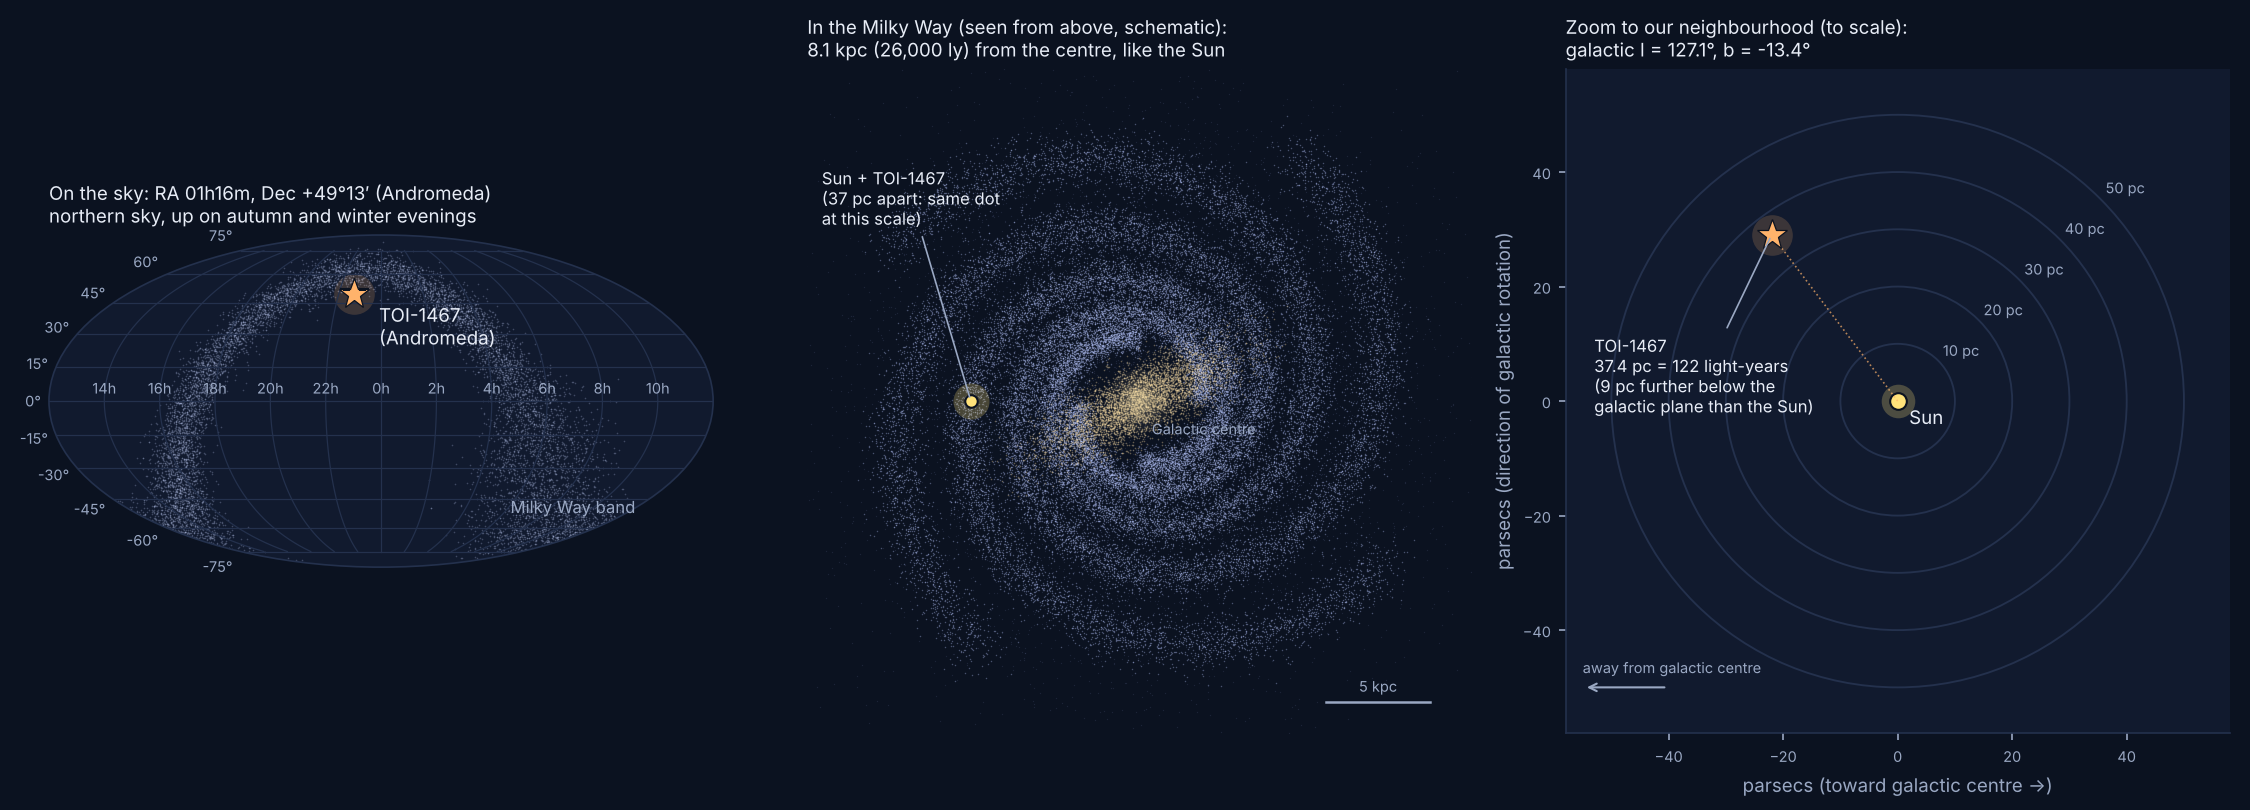
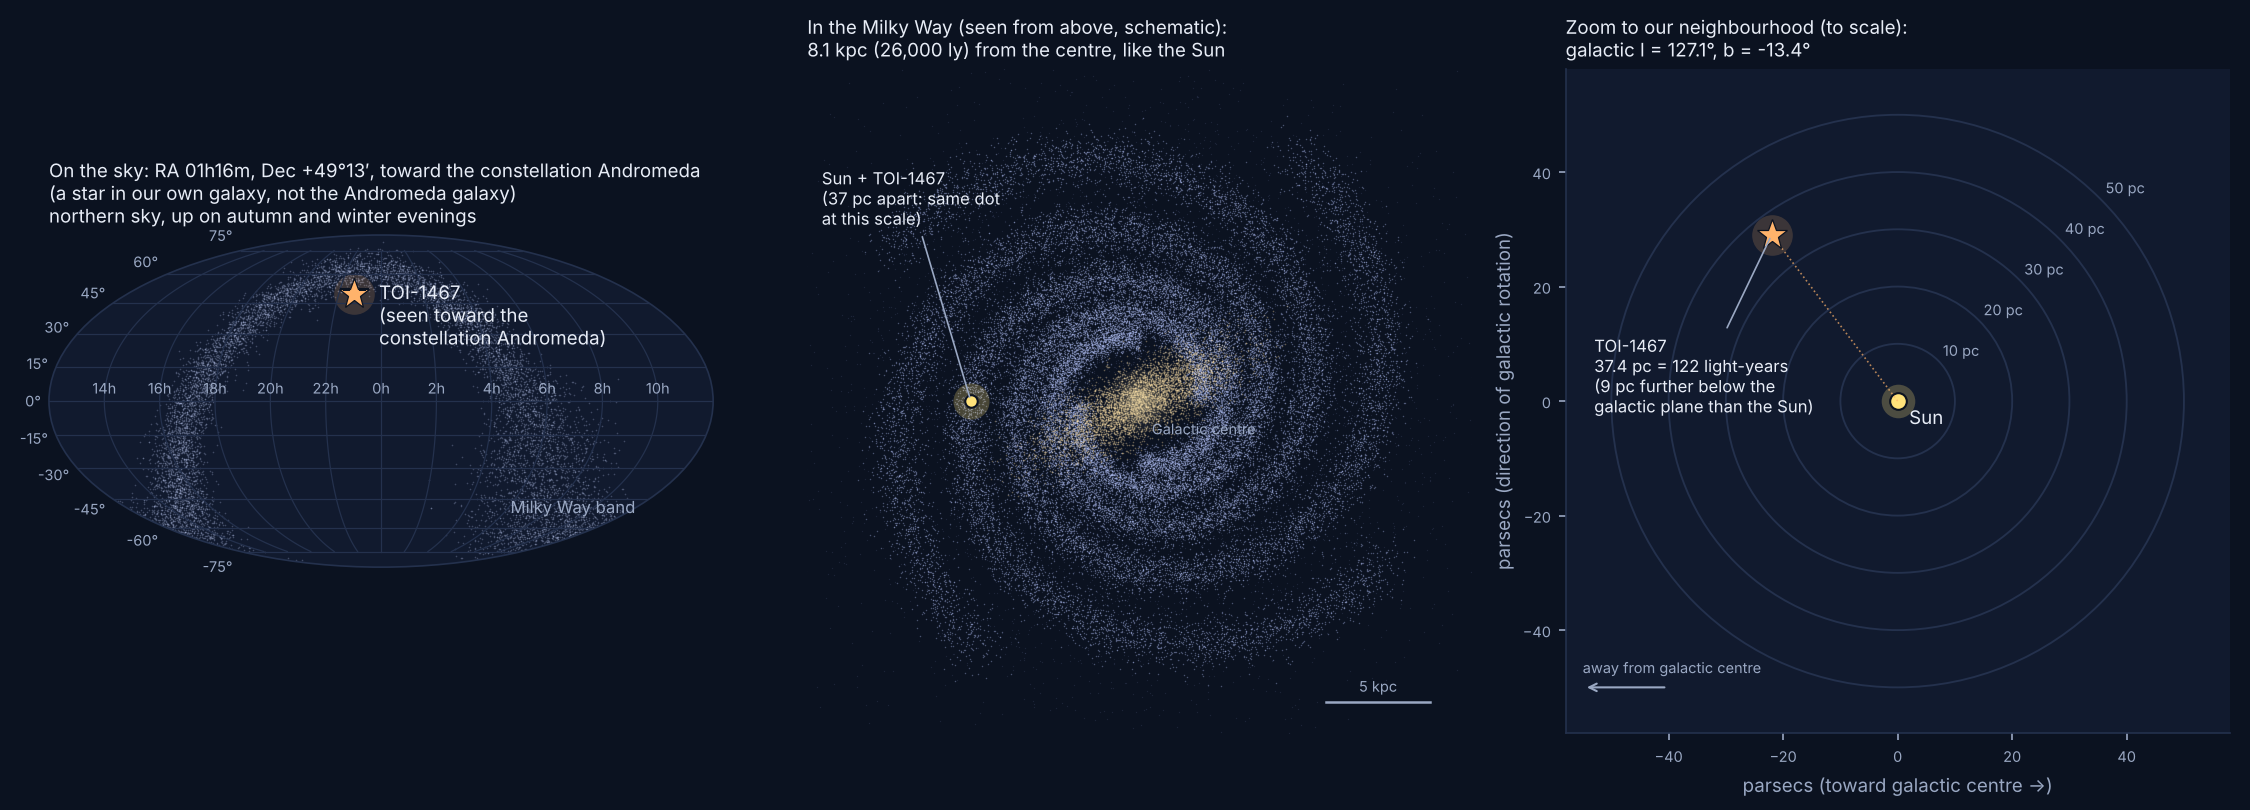
Clarify constellation Andromeda vs the Andromeda galaxy
Claude-Session: https://claude.ai/code/session_01N672f7zeXHWGD7N4jozsUH

Changed region(s): [[0.0, 0.1852, 0.3111, 0.2469], [0.1556, 0.3395, 0.28, 0.4321]]

diff --git a/TOI-1467c/index.html b/TOI-1467c/index.html
@@ -53,7 +53,7 @@ img.wide{border-radius:8px;background:#fff}
 <header>
   <span class="pill">Planet candidate · not confirmed</span>
   <h1>TOI-1467 c</h1>
-  <p class="muted">A possible second, inner planet around TOI-1467, a red dwarf 122 light-years away in Andromeda. The star already has one confirmed planet, TOI-1467 b. The new signal is a 0.06% dip in the star's light every 3.154 days in NASA TESS data from 2019 to 2024.</p>
+  <p class="muted">A possible second, inner planet around TOI-1467, a red dwarf in our own galaxy, 122 light-years away, seen in the direction of the constellation Andromeda (not the Andromeda galaxy, which is 2.5 million light-years away). The star already has one confirmed planet, TOI-1467 b. The new signal is a 0.06% dip in the star's light every 3.154 days in NASA TESS data from 2019 to 2024.</p>
   <p class="muted">Found by Austin Claybrook in an independent search, first recorded about 23:00 UTC on 26 November 2026 (Thanksgiving; ~6 pm Eastern, ~3 pm Pacific). NASA's automated pipeline had also flagged the period as a threshold-crossing event, but it was never made a TESS candidate.</p>
   <div class="stats">
     <div class="stat"><span>Period</span><b>3.15413 d</b></div>
@@ -102,7 +102,7 @@ img.wide{border-radius:8px;background:#fff}
 
 <section style="display:grid;gap:14px">
   <h2>Where it is</h2>
-  <p class="muted">RA 01h16m27.5s, Dec +49°13′59″, in Andromeda. Galactic l = 127.1°, b = −13.4°. At 37.4 pc it is a close neighbour of the Sun, 8.1 kpc from the galactic centre like us. The star is an early M dwarf (Teff ≈ 3,830 K, 0.49 R☉, 0.49 M☉), about 30 times too faint to see by eye.</p>
+  <p class="muted">RA 01h16m27.5s, Dec +49°13′59″. On the sky it sits within the constellation Andromeda, a pattern of stars in our own galaxy. It is unrelated to the Andromeda galaxy, which is about 20,000 times farther away. Galactic l = 127.1°, b = −13.4°. At 37.4 pc it is a close neighbour of the Sun, 8.1 kpc from the galactic centre like us. The star is an early M dwarf (Teff ≈ 3,830 K, 0.49 R☉, 0.49 M☉), about 30 times too faint to see by eye.</p>
   <div class="tablewrap"><img class="wide" src="figures/toi1467_location.png" alt="Sky map, Milky Way schematic, and solar-neighbourhood map showing TOI-1467 at 37.4 parsecs"></div>
 </section>
 
